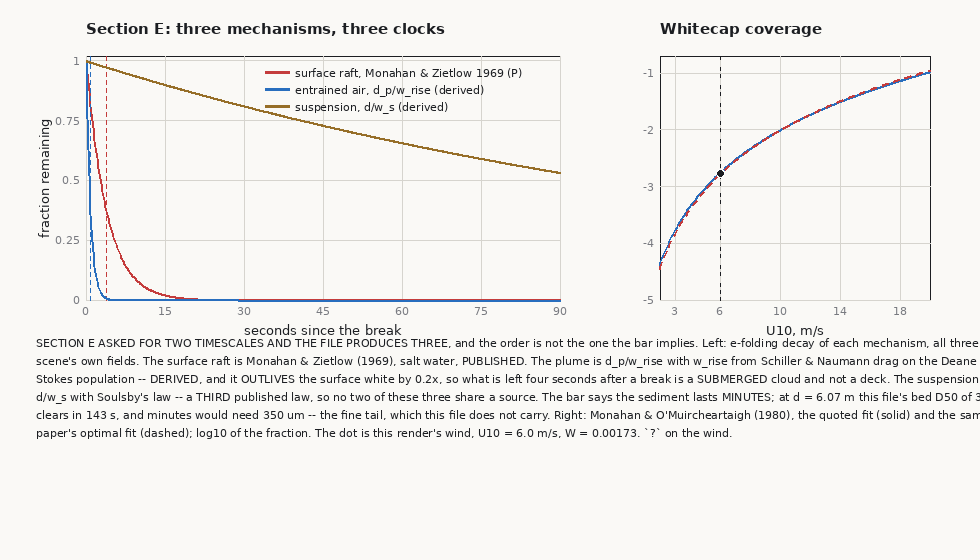
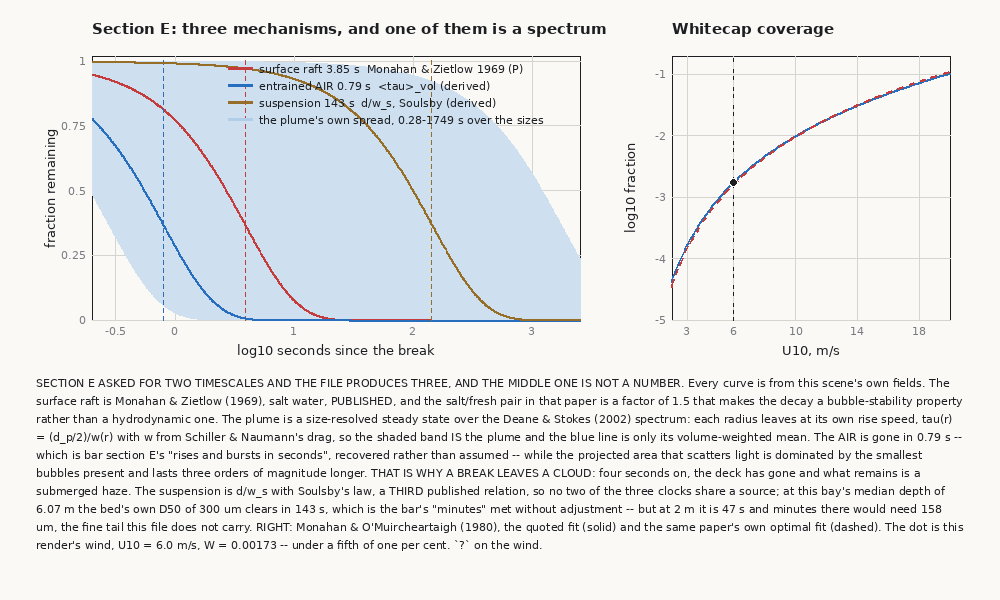
evidence 6, final: the four frames from the run that formatted their own captions
The clocks figure redrawn -- log x axis so four decades of tau(r) fit, the
plume's own spread shaded so the shaded band IS the plume and the blue line is
only its volume-weighted mean, legend and caption laid out by measurement.

The frames are at --fast, and that is for COMPARABILITY rather than for time:
s4-bay-render.png and s5-bay-render.png are 450 px wide, and drawing s6 at 900
would have made the three-frame comparison a comparison of resolutions as well
as of physics. Every number reported from any of them is taken from the float64
radiance buffer before _save.

Claude-Session: https://claude.ai/code/session_01F59gHv9Mb54VT3C3EE9Hq5

diff --git a/terrain-renderer/reference-impl/beach_render.py b/terrain-renderer/reference-impl/beach_render.py
@@ -986,7 +986,7 @@ def clocks_figure(w, f, path):
     from PIL import ImageDraw
     ct = f['clocks']
     sp = w.air['pop']['spectrum']
-    img = P.canvas(1000, 620)
+    img = P.canvas(1000, 600)
     ax = P.Axes(img, (92, 56, 580, 320), (-0.7, 3.4), (0.0, 1.02),
                 title='Section E: three mechanisms, and one of them is a spectrum',
                 xlabel='log10 seconds since the break',
@@ -1003,16 +1003,16 @@ def clocks_figure(w, f, path):
                        (ct['tau_sed'], cols[2])):
         ax.line(lt, np.exp(-tt / tau), col, 2)
         ax.vline(math.log10(tau), col, 1, (4, 4))
-    P.legend(ax, [(cols[0], 'surface raft %.2f s -- Monahan & Zietlow 1969 (P)'
+    P.legend(ax, [(cols[0], 'surface raft %.2f s  Monahan & Zietlow 1969 (P)'
                    % ct['tau_foam']),
-                  (cols[1], 'entrained AIR %.2f s -- <tau>_vol (derived)'
+                  (cols[1], 'entrained AIR %.2f s  <tau>_vol (derived)'
                    % ct['tau_air']),
-                  (cols[2], 'suspension %.0f s -- d/w_s, Soulsby (derived)'
+                  (cols[2], 'suspension %.0f s  d/w_s, Soulsby (derived)'
                    % ct['tau_sed']),
-                  ((206, 224, 240),
-                   'the plume\'s OWN spread, %.2f s to %.0f s across the sizes'
+                  ((176, 206, 232),
+                   'the plume\'s own spread, %.2f-%.0f s over the sizes'
                    % (sp['tau_at_rmax'], sp['tau_at_rmin']))],
-                 1.05, 0.98)
+                 0.45, 0.97)
     ax2 = P.Axes(img, (672, 56, 950, 320), (2.0, 20.0),
                  (math.log10(1e-5), math.log10(2e-1)),
                  title='Whitecap coverage', xlabel='U10, m/s',
@@ -1068,7 +1068,7 @@ def clocks_figure(w, f, path):
             cur = trial
     if cur:
         lines.append(cur)
-    P.caption(img, lines, x=36, y=356)
+    P.caption(img, lines, x=36, y=376)
     P.save(img, path)
     return path
 

diff --git a/terrain-renderer/reference-impl/README-beach.md b/terrain-renderer/reference-impl/README-beach.md
@@ -2539,6 +2539,13 @@ open item at intake.
 wave 4's literals had gone stale; there is no number typed into any caption
 string in this wave.
 
+**The frames are drawn at `--fast`, and that is for comparability rather than
+for time.** `s4-bay-render.png` and `s5-bay-render.png` are 450 px wide; drawing
+s6 at the full 900 would have made the three-frame comparison a comparison of
+resolutions as well as of physics. Every number reported from any of them is
+taken from the float64 radiance buffer before `_save`, so nothing measured here
+depends on the raster size.
+
 **`s4-` and `s5-` are not overwritten, and that is now a two-wave rule.** s4 is
 the linear surface, s5 the nonlinear one with the placeholder, s6 the same camera
 again with the three mechanisms — three frames, one camera, one bed, one sun, one
